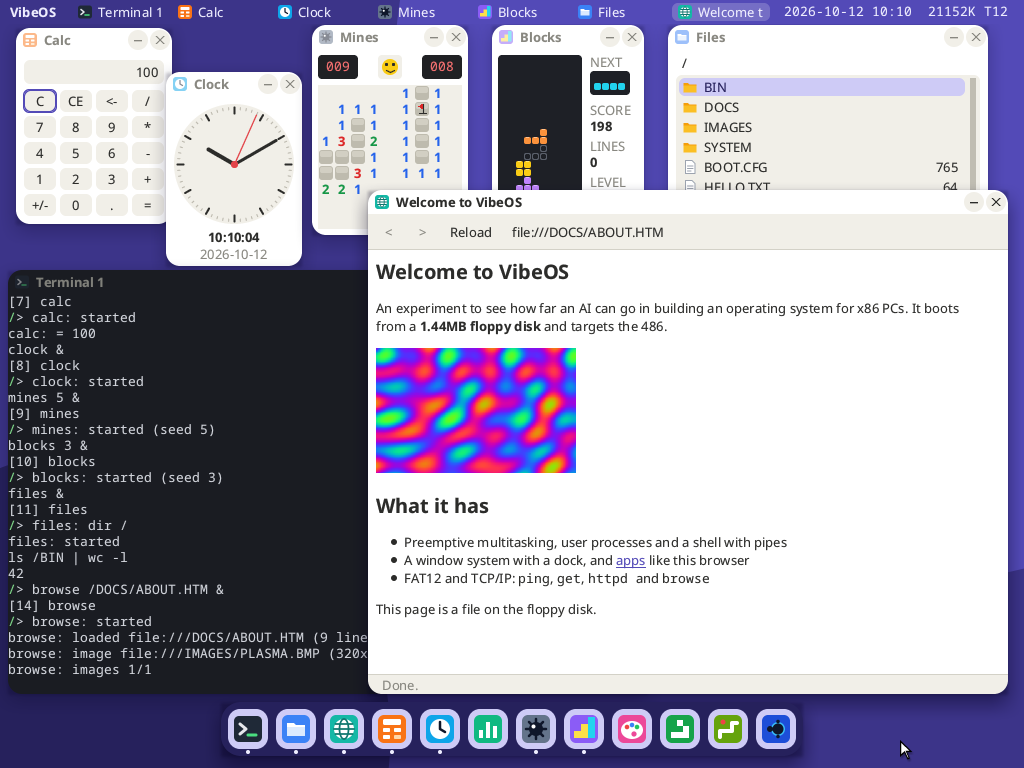
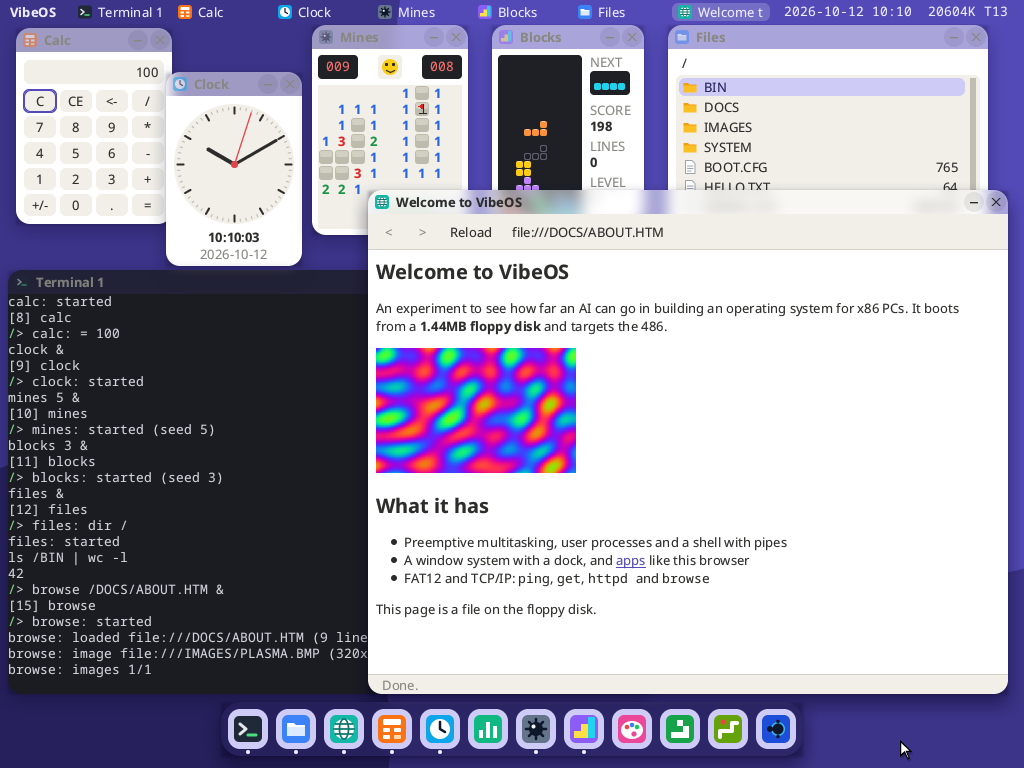
README screenshot with frosted title bars, menu and dock (confirmed by the owner)

diff --git a/docs/PLAN.md b/docs/PLAN.md
@@ -16,7 +16,7 @@
 |---|---|
 | 設計 | ドラフト完了（DESIGN.md） |
 | 現在の Phase | **すりガラス（[計画書](plans/title-blur.md)）の G1〜G3 完了**（2026-10-23。ブランチ `test/blur`。オーナーの「計画書どおり G1 から実装をはじめて」、G1 の後に「この見た目で G2（メニュー・ドック）に進んで」、G2 の後に「この見た目で G3 に進んで」。§6 の答えは D-071）。それまでの計画書はすべて完了（2026-10-15。最後は簡易ウェブブラウザの Phase 45〜48、[計画書](plans/browser.md) §9）。アプリは 42 本、フロッピーの空きは 430,080 バイト。それまでの計画書もすべて完了（2026-10-13 時点）。完了した計画（新しい順）: browser の B1〜B4（簡易ウェブブラウザ [計画書](plans/browser.md)。ブランチ `browser` で作業し main に合流, D-068・D-070）・aster-look の A1〜A4（見た目を Aster のモックアップに近づける [計画書](plans/aster-look.md)。Aster はオーナーが別の場で作ったデスクトップのデザイン案の名前で、リポジトリには無い。ブランチ `aster-look` で作業し main に合流, DECISIONS.md D-056・D-066）・modern-look の M1〜M6（見た目を今風に [計画書](plans/modern-look.md)。ブランチ `modern-look` で作業し main に合流, D-046・D-067）・Phase 38〜44（パイプとリダイレクト [計画書](plans/pipe.md) → ユーザ空間のシェル [計画書](plans/user-shell.md)）・Phase 32〜37（デスクトップの改良 [計画書](plans/desktop.md)。D1〜D6。ウィンドウの大きさの変更は見送り, D-038）・Phase 30〜31（アプリの圧縮 [計画書](plans/app-compress.md)。その時点でアプリは gzip で元の 43.1%）・Phase 27〜29（カーネルの圧縮、LZSA2 + BCJ）・Phase 22〜26（LZSA の自作）・Phase 16〜21（ネットワーク。LAN・WAN とも制限なく使える, D-032。WAN のテストで試す宛先はオーナーの許可制） |
-| 次にやること | 撮り直した README のスクリーンショット（すりガラス）をオーナーに確かめてもらう（D-055。確かめるまでコミットしない）。`test/blur` を main に合流するかはオーナーが決める。実機で使うネットワークカードは近い将来は決めない（D-067）。WAN で新しい宛先を試すときは許可を得てから。main は origin より先に進んでいる（push はしていない） |
+| 次にやること | `test/blur` を main に合流するかはオーナーが決める（README のスクリーンショットはオーナーが確認してコミットした）。実機で使うネットワークカードは近い将来は決めない（D-067）。WAN で新しい宛先を試すときは許可を得てから。main は origin より先に進んでいる（push はしていない） |
 
 ## 3. Phase 一覧
 

diff --git a/docs/LOG.md b/docs/LOG.md
@@ -755,4 +755,4 @@
 - マウスの動きをまとめて渡すようにした（`kernel/src/input.rs`）: すりガラスを既定にすると `71-browse-local` で、カーソルを 532 ピクセル動かしてからのダブルクリックが届かなくなった。G2 で見つけた「大きく動かすと動きが一部しか届かない」と同じで、マウスのスレッドがパケットごとに gui に渡し、gui が毎回描き直すので、間に合わずに生のバイトのリング（256 バイト）があふれていた。溜まったパケットの動きはまとめて最後の位置を 1 回だけ渡し、ボタンが変わったパケットはそれまでの動きの後に順に渡すようにした。お絵かきの線は届いた位置の間を直線で結ぶので、速く動かしたときの線は前より直線に近くなる（`paint-window` の期待画像は変わらなかった）
 - README のスクリーンショットを `make screenshots` で撮り直した（構図は D-069 のまま）。D-055 のとおり、オーナーが確認するまでコミットしない
 - すりガラスを既定にした後の `make test` で `71-browse-local` のダブルクリックが 6 回に 4 回届かなかった（blur=off では 4 回とも通った）。ガラスを計算し直すたびに klog に出して調べると、端末が 1 文字出すたびにドックのガラスを計算し直していた（端末の一番下の行がドックのぼかしの届く範囲に入る。1 回約 10ms）。後ろが変わっただけのガラスは 50ms に 1 回までに間引き、後回しにした分は `glass` のスレッドが描き直すようにした（D-072）。その後 6 回続けて通った
-
+- 撮り直した README のスクリーンショットはオーナーが確認した（「README のスクリーンショットはこれでコミットして」）

diff --git a/docs/plans/title-blur.md b/docs/plans/title-blur.md
@@ -1,6 +1,6 @@
 # 計画書: タイトルバー・メニュー・ドックをすりガラスにする（後ろをガウスぼかしで透かす）
 
-状態: **G3 完了**（計画書の段階はすべて済んだ。README のスクリーンショットはオーナーの確認待ち。§6 はオーナーが答えた: DECISIONS.md D-071。オーナーが「計画書どおり G1 から実装をはじめて」、G1 のスクリーンショットを見て「この見た目で G2（メニュー・ドック）に進んで」、G2 の後に「この見た目で G3 に進んで」） / ブランチ `test/blur`（main の `8f834c9` から）で作業する / 作成: 2026-10-23 / 作成者: AI
+状態: **G3 完了**（計画書の段階はすべて済んだ。README のスクリーンショットはオーナーが確認してコミットした。§6 はオーナーが答えた: DECISIONS.md D-071。オーナーが「計画書どおり G1 から実装をはじめて」、G1 のスクリーンショットを見て「この見た目で G2（メニュー・ドック）に進んで」、G2 の後に「この見た目で G3 に進んで」） / ブランチ `test/blur`（main の `8f834c9` から）で作業する / 作成: 2026-10-23 / 作成者: AI
 
 aster-look（A1〜A4）で、ウィンドウは縁が無く、タイトルバーは中身と同じ白い地になった。
 この計画では、タイトルバーを **すりガラス** にする: タイトルバーの後ろにある物（背景・奥のウィンドウとその影）を
